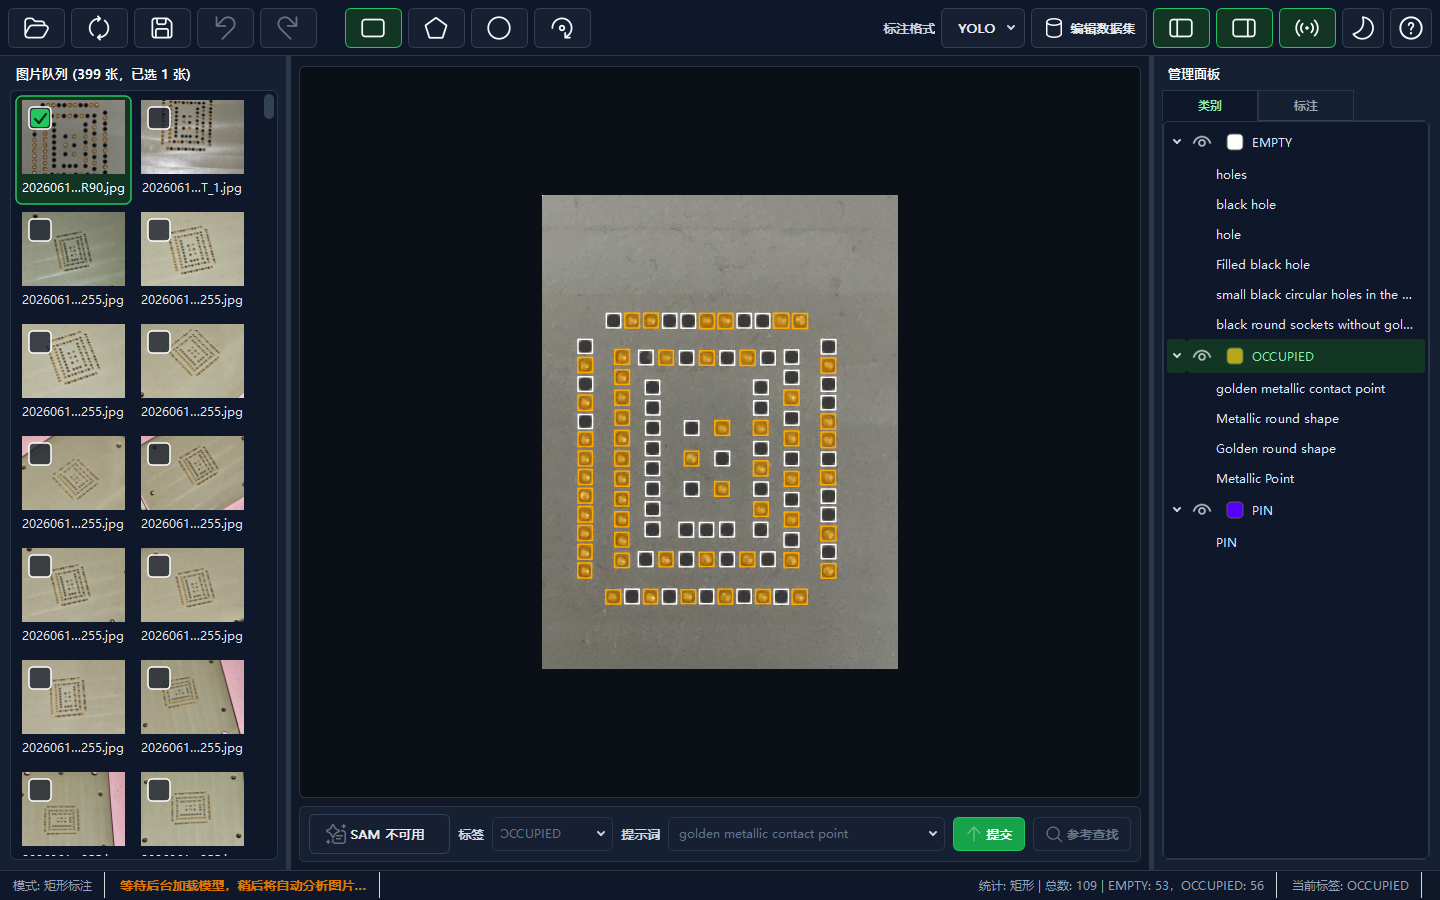
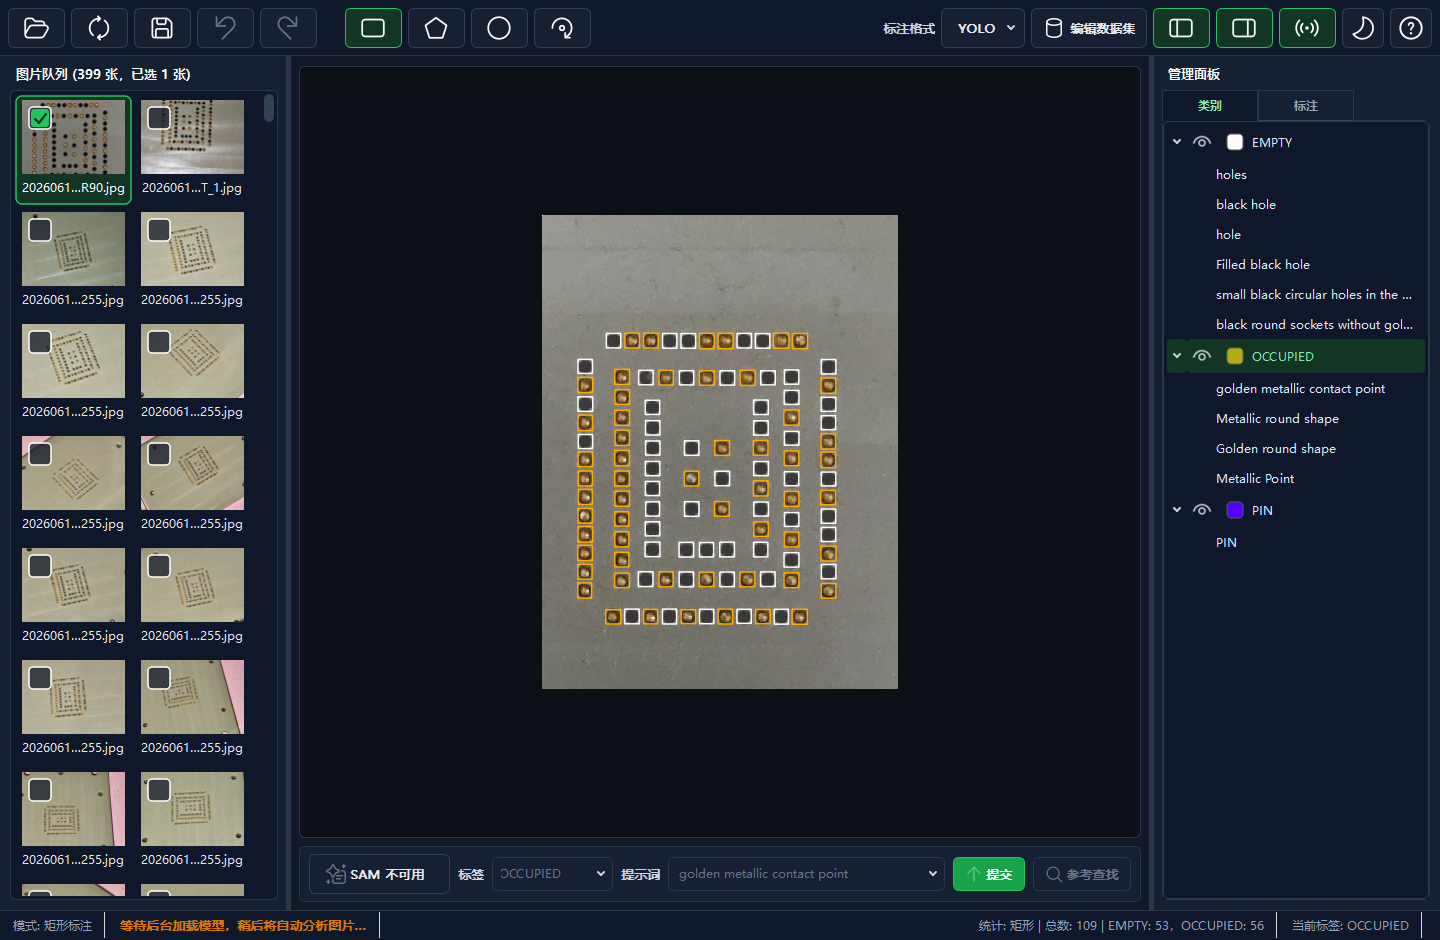
feat: 优化 README 和快捷键引导
- 调整 README 顶部图标与简介排版，并同步英文说明
- 保留快捷键截图亮点，补充 SAM 模型查找截图并更新主界面截图
- 首次选择 SAM 模型后展示一次快捷键引导，并在帮助入口展示同一张图
- 移除自动主题模式，主题按钮仅在浅色和深色之间切换

diff --git a/main.py b/main.py
@@ -124,18 +124,12 @@ def _apply_windows_window_icon(widget):
 
 def _read_startup_theme_key():
     settings = QSettings(SETTINGS_PATH, QSettings.IniFormat)
-    theme_key = settings.value("theme", "system", str)
-    return theme_key if theme_key in ("system", "light", "dark") else "system"
+    theme_key = settings.value("theme", "dark", str)
+    return theme_key if theme_key in ("light", "dark") else "dark"
 
 
 def _resolved_startup_theme(theme_key):
-    if theme_key in ("light", "dark"):
-        return theme_key
-    try:
-        color_scheme = _STARTUP_APP.styleHints().colorScheme() if _STARTUP_APP else Qt.ColorScheme.Unknown
-        return "dark" if color_scheme == Qt.ColorScheme.Dark else "light"
-    except Exception:
-        return "light"
+    return theme_key if theme_key in ("light", "dark") else "dark"
 
 
 def _create_startup_splash_pixmap(resolved_theme=None):
@@ -502,7 +496,9 @@ class MainWindow(QMainWindow, Ui_MainWindow):
         if self.current_format not in ("json", "yolo", "xml"):
             self.current_format = "yolo"
         self._format_changed_by_user = False
-        self.current_theme = self.settings.value("theme", "system", str)
+        self.current_theme = self.settings.value("theme", "dark", str)
+        if self.current_theme not in ("light", "dark"):
+            self.current_theme = "dark"
         self.breathing_highlight_enabled = self._settings_bool("breathing_highlight", True)
         self.active_label = self.settings.value("active_label", "", str)
         self.last_edit_label_index = self.settings.value("last_edit_label_index", 0, int)
@@ -571,7 +567,6 @@ class MainWindow(QMainWindow, Ui_MainWindow):
         self._update_history_actions()
         self._update_sam_switch_text()
         self._set_mode(CanvasMode.RECT)
-        self._connect_system_theme_signal()
         self.apply_theme(self.current_theme)
         self.update_active_label_indicator()
         self.load_sam_model_or_prompt()
@@ -1702,17 +1697,8 @@ class MainWindow(QMainWindow, Ui_MainWindow):
             return
         self.load_sam_model_path(model_path)
         self._set_status(f"正在加载 SAM3 模型: {os.path.basename(model_path)}", "info")
-
-    def _connect_system_theme_signal(self):
-        app = QApplication.instance()
-        try:
-            app.styleHints().colorSchemeChanged.connect(self.on_system_color_scheme_changed)
-        except Exception:
-            pass
-
-    def on_system_color_scheme_changed(self, *_args):
-        if self.current_theme == "system":
-            self.apply_theme("system", persist=False)
+        if not self._settings_bool("shortcut_guide_seen", False):
+            QTimer.singleShot(250, lambda: self.show_shortcut_guide(mark_seen=True))
 
     def _build_dark_palette(self):
         palette = QPalette(self._default_palette)
@@ -1777,18 +1763,12 @@ class MainWindow(QMainWindow, Ui_MainWindow):
         ui_resource_dir = os.path.join(RESOURCE_DIR, "ui").replace("\\", "/")
         return qss.replace("url(ui/", f"url({ui_resource_dir}/")
 
-    def _resolved_system_theme(self):
-        app = QApplication.instance()
-        try:
-            scheme = app.styleHints().colorScheme()
-            return "dark" if scheme == Qt.ColorScheme.Dark else "light"
-        except Exception:
-            return "light"
-
     def apply_theme(self, theme_key, persist=True):
+        if theme_key not in ("light", "dark"):
+            theme_key = "dark"
         self.current_theme = theme_key
         app = QApplication.instance()
-        resolved = self._resolved_system_theme() if theme_key == "system" else theme_key
+        resolved = theme_key
         if resolved == "dark":
             app.setPalette(self._build_dark_palette())
             app.setStyleSheet(self._load_theme_stylesheet("dark"))
@@ -2480,7 +2460,7 @@ class MainWindow(QMainWindow, Ui_MainWindow):
     def open_dataset_tool(self):
         try:
             if not hasattr(self, 'dataset_window') or self.dataset_window is None:
-                resolved = self._resolved_system_theme() if self.current_theme == "system" else self.current_theme
+                resolved = self.current_theme if self.current_theme in ("light", "dark") else "dark"
                 self.dataset_window = DatasetToolWindow(resolved)
             # 显示窗口
             self.dataset_window.show()
@@ -3077,31 +3057,50 @@ class MainWindow(QMainWindow, Ui_MainWindow):
         if is_batch:
             self._finish_batch_prompt_task(added_count, failed=added_count == 0)
 
+    def _shortcut_guide_image_path(self):
+        return os.path.join(RESOURCE_DIR, "assets", "shortcut.jpg")
+
+    def show_shortcut_guide(self, mark_seen=False, help_text=None):
+        dialog = QDialog(self)
+        dialog.setWindowTitle("PromptLabel")
+        dialog.setModal(True)
+        dialog.resize(980, 760 if help_text else 610)
+
+        layout = QVBoxLayout(dialog)
+        title = QLabel("\u5feb\u6377\u952e\u901f\u89c8")
+        title.setObjectName("dialogTitle")
+        layout.addWidget(title)
+
+        image_label = QLabel()
+        image_label.setAlignment(Qt.AlignCenter)
+        pixmap = QPixmap(self._shortcut_guide_image_path())
+        if pixmap.isNull():
+            image_label.setText("assets/shortcut.jpg")
+        else:
+            image_label.setPixmap(pixmap.scaled(920, 460, Qt.KeepAspectRatio, Qt.SmoothTransformation))
+        layout.addWidget(image_label)
+
+        if help_text:
+            help_box = QTextEdit()
+            help_box.setReadOnly(True)
+            help_box.setMinimumHeight(210)
+            help_box.setPlainText(help_text)
+            layout.addWidget(help_box)
+
+        button_row = QHBoxLayout()
+        close_btn = QPushButton("\u5173\u95ed")
+        close_btn.clicked.connect(dialog.accept)
+        button_row.addStretch()
+        button_row.addWidget(close_btn)
+        layout.addLayout(button_row)
+
+        dialog.exec()
+        if mark_seen:
+            self.settings.setValue("shortcut_guide_seen", True)
+            self.settings.sync()
+
     def show_help_dialog(self):
-        help_text = (
-            "快捷键：\n"
-            "A / D：上一张 / 下一张\n"
-            "Ctrl + Z：撤销\n"
-            "Ctrl + Y / Ctrl + Shift + Z：重做\n"
-            "Ctrl + A：图片队列有焦点时全选图片，否则选择当前标注类型分组内的全部标注\n"
-            "1 - 9 / Tab：切换当前标签\n"
-            "Q / Space：切换 SAM\n"
-            "R：提交 SAM 提示词\n"
-            "B / P / T / O：矩形 / 多边形 / 点 / 旋转框\n\n"
-            "提示词：\n"
-            "Enter 或“提交”按钮会提交提示词。\n"
-            "多个提示词别名可对应同一个 YOLO 类别。\n"
-            "左侧图片队列勾选多张图片后，提交 SAM 提示词会按当前标签逐张批量智能标注。\n\n"
-            "右键菜单：\n"
-            "画布右键可打开/关闭 SAM、提交提示词、切换当前标签。\n"
-            "右侧标注列表可批量改类别或删除标注。\n"
-            "左侧图片队列可复制文件名、打开目录或删除图片及标注。\n\n"
-            "项目链接：\n"
-            "当前仓库：https://github.com/m-RNA/PromptLabel\n"
-            "上游仓库：https://github.com/luohuabuxiema/LabelPaw\n"
-            "当前仓库是在上游 LabelPaw 的基础上继续开发。"
-        )
-        QMessageBox.about(self, "PromptLabel 帮助", help_text)
+        self.show_shortcut_guide()
 
     def on_sam_toggled(self, checked):
         self.scene.set_sam_enabled(checked)

diff --git a/ui/main_window.py b/ui/main_window.py
@@ -33,7 +33,6 @@ class ToolbarIconSet:
         "dataset": "dataset.svg",
         "visible": "eye.svg",
         "invisible": "eye-off.svg",
-        "system": "system.svg",
         "light": "sun.svg",
         "dark": "moon.svg",
         "sam": "prompt.svg",
@@ -165,17 +164,16 @@ class ToolbarSpring(QWidget):
 class ThemeSelectorWidget(QWidget):
     theme_changed = Signal(str)
 
-    THEME_ORDER = ("system", "light", "dark")
+    THEME_ORDER = ("light", "dark")
     THEME_TEXT = {
-        "system": "自动主题",
-        "light": "浅色主题",
-        "dark": "深色主题",
+        "light": "\u6d45\u8272\u4e3b\u9898",
+        "dark": "\u6df1\u8272\u4e3b\u9898",
     }
 
     def __init__(self, icons=None, parent=None):
         super().__init__(parent)
         self.icons = icons or ToolbarIconSet()
-        self._theme_key = "system"
+        self._theme_key = "dark"
         layout = QHBoxLayout(self)
         layout.setContentsMargins(0, 0, 0, 0)
         self.btn = QToolButton()
@@ -195,7 +193,7 @@ class ThemeSelectorWidget(QWidget):
 
     def set_theme(self, theme_key):
         if theme_key not in self.THEME_ORDER:
-            theme_key = "system"
+            theme_key = "dark"
         self._theme_key = theme_key
         self.btn.setIcon(self.icons.icon(theme_key))
         self.btn.setToolTip(self.THEME_TEXT[theme_key])

diff --git a/README.en.md b/README.en.md
@@ -2,11 +2,12 @@
 
 **Language**: [中文](README.md) | English
 
-<p align="center">
-  <img src="assets/promptlabel_pl.png" alt="PromptLabel icon" width="96">
-</p>
-
-PromptLabel is a SAM3-based prompt-assisted image annotation workbench. It separates “prompt wording” from “training classes”: you can use multiple prompt aliases to find the same target while keeping exported YOLO classes clean and stable.
+<table>
+<tr>
+<td width="110" align="center"><img src="assets/promptlabel_pl.png" alt="PromptLabel icon" width="86"></td>
+<td>PromptLabel is a SAM3-assisted annotation workbench: use multiple prompt aliases to find the same target class while exports stay clean, stable, and YOLO-ready.</td>
+</tr>
+</table>
 
 The interface and basic annotation workflow are adapted from [LabelPaw](https://github.com/luohuabuxiema/LabelPaw). This is not an official version from the original author.
 
@@ -18,22 +19,22 @@ One training class can have multiple prompt aliases, for example:
 
 ```text
 helmet
-├─ helmet
-├─ hard hat
-└─ ...
+- helmet
+- hard hat
+- ...
 ```
 
 When using SAM text prompts, any alias can be used to find the target. Saving and exporting still write only the `helmet` class, so the dataset class list stays clean.
 
-### Faster Continuous Annotation
+### Shortcut-First Labeling
 
-Frequent actions have keyboard paths: `A` / `D` switch images, `1` - `9` or `Tab` switch classes, `Q` / `Space` toggles SAM, and `R` submits the prompt. Together with auto-save and status-bar feedback, this keeps continuous review and labeling from being interrupted.
-
-### Compact Workbench
-
-The UI is organized around a left image queue, central canvas, right class/annotation manager, and bottom SAM workflow. After opening a folder, you can browse thumbnails, select multiple images for batch prompt annotation, and manage classes, prompt aliases, colors, and visibility from the right panel.
+<p align="center">
+  <img src="assets/shortcut_en.jpg" alt="PromptLabel shortcut overview" width="900">
+</p>
 
 ## Screenshot
+
+The UI is organized around a left image queue, central canvas, right class/annotation manager, and bottom SAM workflow. After opening a folder, you can browse thumbnails, select multiple images for batch prompt annotation, and manage classes, prompt aliases, colors, and visibility from the right panel.
 
 ![PromptLabel main interface](assets/readme_main_ui.png)
 
@@ -66,6 +67,8 @@ Backup download:
 
 `sam3.pt` belongs to SAM Materials and is governed by `SAM_LICENSE.txt`. Confirm compliance with Meta's SAM License before use or redistribution.
 
+![Finding the SAM model](assets/find_sam.jpg)
+
 ## How to Run
 
 ### Beta Portable Package
@@ -94,11 +97,6 @@ python -m venv .venv311
 
 The output directory is `dist\PromptLabel\`. Release packages should not include `models\sam3.pt`, `.sam3_tmp\`, logs, caches, or local test images.
 
-## Shortcuts
-
-<p align="center">
-  <img src="assets/shortcut_en.jpg" alt="PromptLabel shortcut overview" width="900">
-</p>
 
 ## Auto-Save
 

diff --git a/README.md b/README.md
@@ -2,11 +2,12 @@
 
 **语言**：中文 | [English](README.en.md)
 
-<p align="center">
-  <img src="assets/promptlabel_pl.png" alt="PromptLabel 图标" width="96">
-</p>
-
-PromptLabel 是一个基于 SAM3 的提示词辅助图像标注工作台。它把“提示词找目标”和“训练集类别管理”分开：你可以用多个提示词别名找同一个目标，但导出时仍然保持干净、稳定的 YOLO 类别。
+<table>
+<tr>
+<td width="110" align="center"><img src="assets/promptlabel_pl.png" alt="PromptLabel 图标" width="86"></td>
+<td>PromptLabel 是一个基于 SAM3 的提示词辅助图像标注工作台：用多个提示词别名快速找到同一类目标，导出时仍保持干净、稳定的 YOLO 类别。</td>
+</tr>
+</table>
 
 项目在界面和基础标注流程上参考并改造了 [LabelPaw](https://github.com/luohuabuxiema/LabelPaw)，不是原作者官方版本。
 
@@ -27,13 +28,13 @@ helmet
 
 ### 连续标注更少打断
 
-常用动作都有键盘入口：`A` / `D` 切换图片，`1` - `9` 或 `Tab` 切换类别，`Q` / `Space` 开关 SAM，`R` 提交提示词。配合自动保存和状态栏反馈，连续扫图时不需要频繁打断当前节奏。
-
-### 紧凑工作台
-
-界面围绕左侧图片队列、中央画布、右侧类别/标注管理、底部 SAM 工作流组织。打开目录后可以直接浏览缩略图、勾选多张图片批量提交提示词，并在右侧完成类别、提示词别名、颜色和可见性管理。
+<p align="center">
+  <img src="assets/shortcut.jpg" alt="PromptLabel 快捷键速览" width="900">
+</p>
 
 ## 界面截图
+
+界面围绕左侧图片队列、中央画布、右侧类别/标注管理、底部 SAM 工作流组织。打开目录后可以直接浏览缩略图、勾选多张图片批量提交提示词，并在右侧完成类别、提示词别名、颜色和可见性管理。
 
 ![PromptLabel 主界面](assets/readme_main_ui.png)
 
@@ -66,6 +67,8 @@ models/sam3.pt
 
 `sam3.pt` 属于 SAM Materials，受 `SAM_LICENSE.txt` 约束。使用或再分发前请确认遵守 Meta 的 SAM License。
 
+![SAM 模型查找](assets/find_sam.jpg)
+
 ## 运行方式
 
 ### Beta 便携包
@@ -94,11 +97,6 @@ python -m venv .venv311
 
 输出目录为 `dist\PromptLabel\`。Release 包不要包含 `models\sam3.pt`、`.sam3_tmp\`、日志、缓存或本地测试图片。
 
-## 快捷键
-
-<p align="center">
-  <img src="assets/shortcut.jpg" alt="PromptLabel 快捷键速览" width="900">
-</p>
 
 ## 自动保存
 